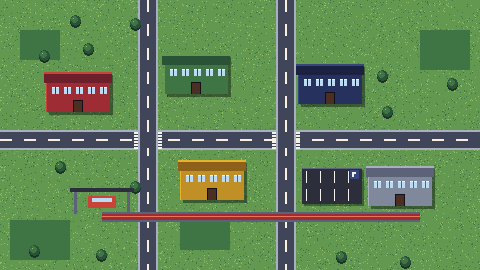
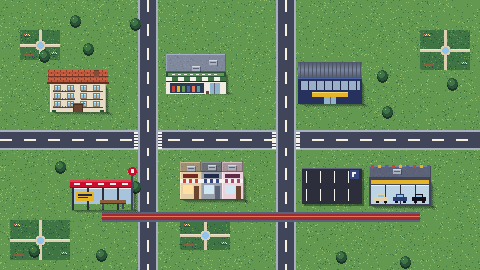
Haritalar: mekana özel 3/4 binalar, durak sığınakları, parklar, kampüs kapısı ve tarihi kışla

diff --git a/tools/make_backgrounds.py b/tools/make_backgrounds.py
@@ -180,7 +180,7 @@ def city_map():
     p.fill(0, 0, 480, 270, GREEN[3])
     p.speckle(0, 0, 480, 270, [GREEN[2], GREEN[4]], 0.07, 1)
     for (x, y, w, h) in [(20, 30, 40, 30), (420, 30, 50, 40), (10, 220, 60, 40), (180, 220, 50, 30)]:
-        p.fill(x, y, w, h, GREEN[2])
+        small_park(p, x, y, w, h)
     # yollar ve kaldırımlar
     def road_h(y):
         p.fill(0, y - 2, 480, 20, STONE[5]); p.fill(0, y, 480, 16, STONE[2])
@@ -207,11 +207,9 @@ def city_map():
             continue
         p.circle(x, y + 2, 5, GREEN[0]); p.circle(x, y, 5, GREEN[1]); p.circle(x - 1, y - 1, 3, GREEN[2]); p.set(x - 2, y - 2, GREEN[4])
     for name, ((cx, cy), ramp) in MAP_SPOTS.items():
-        map_building(p, cx, cy, ramp)
+        draw_place(p, name, cx, cy, ramp)
     # durak
-    x, y = 70, 176
-    p.fill(x, y + 12, 64, 4, STONE[1]); p.fill(x + 4, y + 16, 3, 22, STONE[3]); p.fill(x + 57, y + 16, 3, 22, STONE[3])
-    p.fill(x + 18, y + 20, 28, 12, RED[3]); p.fill(x + 22, y + 22, 20, 4, SKY[3])
+    bus_shelter(p, 70, 180)
     p.save("bg_map.png")
 
 
@@ -223,6 +221,229 @@ def parking_lot(p, cx, cy):
     for k in range(x + 4, x + w, 14):
         p.fill(k, y + 3, 1, 12, WHITE); p.fill(k, y + h - 15, 1, 12, WHITE)
     p.fill(x + w - 12, y + 2, 9, 9, NAVY[3]); p.fill(x + w - 10, y + 4, 2, 5, WHITE); p.fill(x + w - 8, y + 4, 2, 2, WHITE)
+
+
+# ---------------------------------------------------------------- Harita binaları (3/4 açı, mekana özel)
+# Her bina hover alanına (merkez cx, cy; 64x40) sığar: üstte çatı yüzeyi, altta cephe, sağ altta gölge.
+
+def _shade(c, k):
+    return tuple(max(0, min(255, int(v * k))) for v in c)
+
+
+def _ground_shadow(p, x, y, w, h):
+    for k in range(5):   # sağa-aşağı düşen yumuşak gölge
+        p.darken(x + 3 + k, y + h + k // 2, w, 1, 0.82, dither=k > 2)
+        p.darken(x + w + k // 2, y + 4 + k, 1, h - 4, 0.82, dither=k > 2)
+
+
+def _windows(p, x, y, cols, rows, ww, wh, gx, gy, frame, glass, sill=None, lit=0.0, seed=1):
+    import random as _r
+    rng = _r.Random(seed)
+    for r in range(rows):
+        for c in range(cols):
+            wx, wy = x + c * (ww + gx), y + r * (wh + gy)
+            p.fill(wx - 1, wy - 1, ww + 2, wh + 2, frame)
+            p.fill(wx, wy, ww, wh, glass)
+            p.fill(wx, wy, ww, 1, _shade(glass, 1.25))
+            if ww >= 4:
+                p.fill(wx + ww // 2, wy, 1, wh, frame)
+            if lit and rng.random() < lit:
+                p.fill(wx, wy + 1, ww, wh - 1, GOLD[4])
+            if sill:
+                p.fill(wx - 1, wy + wh + 1, ww + 2, 1, sill)
+
+
+def _pitched_roof(p, x, y, w, d, tile):
+    """Kiremit çatı (üstten): mahyaya doğru açılan sıralar, ortada mahya, kenarda saçak."""
+    p.fill(x - 2, y, w + 4, d, _shade(tile, 0.85))
+    for r in range(d):
+        col = tile if (r // 2) % 2 else _shade(tile, 1.12)
+        p.fill(x - 2, y + r, w + 4, 1, col)
+        for k in range(x - 2 + (r // 2 % 2) * 3, x + w + 2, 6):
+            p.set(k, y + r, _shade(tile, 0.75))
+    p.fill(x - 2, y + d // 2, w + 4, 1, _shade(tile, 0.6))      # mahya
+    p.fill(x - 3, y + d, w + 6, 2, _shade(tile, 0.55))          # saçak gölgesi
+
+
+def _flat_roof(p, x, y, w, d, base, units=2, seed=3):
+    import random as _r
+    rng = _r.Random(seed)
+    p.fill(x, y, w, d, base)
+    p.speckle(x + 1, y + 1, w - 2, d - 2, [_shade(base, 0.9), _shade(base, 1.08)], 0.12, seed)
+    p.fill(x, y, w, 1, _shade(base, 1.3)); p.fill(x, y, 1, d, _shade(base, 1.2))      # korkuluk duvarı
+    p.fill(x + w - 1, y, 1, d, _shade(base, 0.75)); p.fill(x, y + d - 1, w, 1, _shade(base, 0.7))
+    for k in range(units):   # klima / havalandırma kutuları
+        ux, uy = x + 4 + rng.randrange(max(1, w - 14)), y + 2 + rng.randrange(max(1, d - 7))
+        p.fill(ux, uy, 8, 5, STONE[5]); p.fill(ux, uy, 8, 1, STONE[6]); p.fill(ux + 1, uy + 2, 6, 1, STONE[3])
+        p.darken(ux + 8, uy + 1, 1, 5, 0.7)
+
+
+def bus_shelter(p, x, y):
+    """Metrobüs durağı sığınağı (3/4): kırmızı-beyaz çatı, cam arka panel, bank, durak tabelası."""
+    _ground_shadow(p, x, y + 6, 64, 24)
+    p.fill(x, y, 64, 8, H("c8102e")); p.fill(x, y, 64, 2, H("e83a50")); p.fill(x, y + 7, 64, 1, H("8e0a20"))
+    for k in range(x + 4, x + 60, 12):
+        p.fill(k, y + 3, 6, 2, WHITE)
+    p.fill(x + 2, y + 8, 60, 16, H("a8c4dc")); p.fill(x + 2, y + 8, 60, 1, WHITE)          # cam panel
+    for k in range(x + 2, x + 62, 15):
+        p.fill(k, y + 8, 2, 22, STONE[1])
+    p.fill(x + 6, y + 12, 18, 9, H("e6b428")); p.fill(x + 8, y + 14, 14, 2, H("1b2a52")); p.fill(x + 8, y + 17, 10, 1, H("1b2a52"))  # reklam
+    p.fill(x + 30, y + 20, 26, 3, WOOD[3]); p.fill(x + 30, y + 23, 26, 1, WOOD[1])          # bank
+    p.fill(x + 32, y + 24, 2, 5, STONE[2]); p.fill(x + 52, y + 24, 2, 5, STONE[2])
+    p.fill(x + 61, y - 8, 2, 38, STONE[2])                                                     # tabela direği
+    p.circle(x + 62, y - 9, 4, H("c8102e")); p.fill(x + 61, y - 11, 3, 4, WHITE)
+
+
+def small_park(p, x, y, w, h):
+    """Küçük park: koyu çim, kıvrımlı yol, çiçek tarhı, bank."""
+    p.fill(x, y, w, h, GREEN[2])
+    p.speckle(x, y, w, h, [GREEN[1], GREEN[3]], 0.1, x + y)
+    p.fill(x, y + h // 2 - 1, w, 3, CREAM[3]); p.fill(x + w // 2 - 1, y, 3, h, CREAM[3])
+    p.fill(x, y + h // 2 - 1, w, 1, CREAM[4])
+    p.circle(x + w // 2, y + h // 2, 5, CREAM[3]); p.circle(x + w // 2, y + h // 2, 3, SKY[2])   # süs havuzu
+    for (fx, fy) in ((x + 4, y + 4), (x + w - 9, y + h - 8)):
+        for k in range(6):
+            p.set(fx + k, fy + (k % 2), [RED[4], GOLD[4], WHITE][k % 3])
+            p.set(fx + k, fy + 2, GREEN[1])
+    p.fill(x + 4, y + h - 6, 10, 2, WOOD[3]); p.fill(x + 5, y + h - 4, 1, 2, STONE[2]); p.fill(x + 12, y + h - 4, 1, 2, STONE[2])
+
+
+def campus_gate(p, cx, y):
+    """Kampüs kapısı: iki taş ayak, üstte kemer ve tabela."""
+    p.fill(cx - 22, y - 10, 8, 18, CREAM[1]); p.fill(cx + 14, y - 10, 8, 18, CREAM[1])
+    p.fill(cx - 22, y - 10, 8, 2, CREAM[4]); p.fill(cx + 14, y - 10, 8, 2, CREAM[4])
+    p.fill(cx - 22, y - 14, 44, 5, H("1b2a52")); p.fill(cx - 22, y - 14, 44, 1, H("4d63a6"))
+    p.fill(cx - 12, y - 13, 24, 2, GOLD[3])
+    p.fill(cx - 14, y - 9, 28, 1, STONE[2])
+    p.darken(cx - 14, y + 8, 40, 3, 0.8, dither=True)
+
+
+def kisla(p, x, y):
+    """Tarihi Davutpaşa Kışlası: kiremit çatı, kum taşı cephe, kemerli pencereler, saat kuleli kapı."""
+    w = 58
+    _ground_shadow(p, x, y + 10, w, 34)
+    _pitched_roof(p, x, y, w, 10, H("a8442e"))
+    p.fill(x, y + 12, w, 32, H("d8b888")); p.fill(x, y + 12, w, 1, H("ecd2a4")); p.fill(x, y + 12, 1, 32, H("ecd2a4"))
+    p.fill(x, y + 27, w, 1, H("b89868"))
+    for ax in list(range(x + 3, x + 22, 6)) + list(range(x + 38, x + w - 3, 6)):    # kemerli pencereler
+        for row in (y + 15, y + 30):
+            p.fill(ax, row + 2, 4, 7, H("3a2a22")); p.fill(ax + 1, row + 1, 2, 1, H("3a2a22"))
+            p.fill(ax, row + 9, 4, 1, H("ecd2a4"))
+    tx = x + w // 2 - 7                                                               # saat kulesi ve kapı
+    p.fill(tx, y - 8, 14, 52, H("c8a878")); p.fill(tx, y - 8, 14, 2, H("ecd2a4"))
+    p.fill(tx - 1, y - 11, 16, 4, H("a8442e")); p.fill(tx + 6, y - 14, 2, 3, GOLD[3])
+    p.circle(tx + 7, y + 2, 4, WHITE); p.fill(tx + 7, y - 1, 1, 3, BLACK); p.fill(tx + 7, y + 2, 3, 1, BLACK)
+    p.fill(tx + 3, y + 30, 8, 14, H("3a2a22")); p.fill(tx + 4, y + 29, 6, 1, H("3a2a22"))
+
+
+def draw_place(p, name, cx, cy, ramp):
+    x0, y0 = cx - 32, cy - 22
+    if name == "ev":   # 4 katlı apartman: kiremit çatı, balkonlar
+        x, w = x0 + 4, 56
+        _ground_shadow(p, x, y0 + 12, w, 30)
+        _pitched_roof(p, x, y0, w, 12, H("b8553a"))
+        p.fill(x + w - 12, y0 + 1, 5, 6, H("8a4a3a")); p.fill(x + w - 12, y0, 5, 1, H("6a3a2e"))      # baca
+        p.fill(x, y0 + 14, w, 28, H("e8dcc4")); p.fill(x, y0 + 14, 1, 28, H("f6eedc")); p.fill(x + w - 1, y0 + 14, 1, 28, H("c8b89c"))
+        for fl in range(3):
+            fy = y0 + 16 + fl * 8
+            _windows(p, x + 5, fy, 4, 1, 5, 4, 8, 0, H("8a7a62"), SKY[2], seed=fl)
+            p.fill(x + 3, fy + 5, 22, 1, STONE[2]); p.fill(x + 31, fy + 5, 22, 1, STONE[2])   # balkon korkuluğu
+            for k in range(x + 3, x + 25, 3):
+                p.set(k, fy + 4, STONE[3])
+        p.fill(cx - 5, y0 + 34, 10, 8, WOOD[1]); p.fill(cx - 4, y0 + 35, 8, 7, WOOD[2]); p.fill(cx - 7, y0 + 33, 14, 1, STONE[3])
+        p.fill(x + 2, y0 + 40, 4, 2, GREEN[1]); p.fill(x + w - 6, y0 + 40, 4, 2, GREEN[1])
+    elif name == "market":   # tek katlı market: düz çatı, yeşil tente, vitrin
+        x, w = x0 + 2, 60
+        _ground_shadow(p, x, y0 + 18, w, 22)
+        _flat_roof(p, x, y0 + 2, w, 18, STONE[4], 2, 5)
+        p.fill(x, y0 + 20, w, 22, H("f0ece2"))
+        p.fill(x, y0 + 20, w, 5, GREEN[1]); p.fill(x + 2, y0 + 21, w - 4, 3, GREEN[3])           # tabela bandı
+        for k in range(x + 6, x + w - 6, 6):
+            p.fill(k, y0 + 22, 3, 1, WHITE)
+        for k, sx in enumerate(range(x, x + w, 6)):                                               # tente
+            p.fill(sx, y0 + 25, 6, 4, GREEN[2] if k % 2 else WHITE)
+        p.fill(x, y0 + 29, w, 1, GREEN[0])
+        p.fill(x + 4, y0 + 31, 34, 10, H("2b3a55"))
+        for k in range(6):
+            p.fill(x + 6 + k * 5, y0 + 34, 3, 6, [RED[3], GOLD[3], GREEN[3], NAVY[4], H("e8745a"), TEAL[3]][k])
+        p.fill(x + 44, y0 + 31, 10, 11, H("8fb4cc")); p.fill(x + 48, y0 + 31, 1, 11, STONE[3])
+        p.fill(x + 40, y0 + 39, 3, 3, WOOD[2])
+    elif name == "gym":   # spor salonu: kemerli metal çatı, cam şerit
+        x, w = x0, 64
+        _ground_shadow(p, x, y0 + 16, w, 26)
+        for r in range(16):   # kemerli çatı: ortası açık, kenarlar koyu
+            k = 0.75 + 0.35 * (1 - abs(r - 7.5) / 7.5)
+            p.fill(x, y0 + r, w, 1, _shade(H("6e7a92"), k))
+        for k in range(x + 2, x + w, 4):
+            p.fill(k, y0, 1, 16, _shade(H("6e7a92"), 0.7))
+        p.fill(x, y0 + 16, w, 26, NAVY[2]); p.fill(x, y0 + 16, w, 1, NAVY[4])
+        p.fill(x + 2, y0 + 19, w - 4, 9, H("9ab0c8"))                                              # cam şerit
+        for k in range(x + 2, x + w - 2, 8):
+            p.fill(k, y0 + 19, 1, 9, NAVY[1])
+        p.fill(x + 14, y0 + 30, 36, 5, GOLD[3]); p.fill(x + 14, y0 + 30, 36, 1, GOLD[4])          # tabela
+        p.fill(cx - 6, y0 + 35, 12, 7, H("8fb4cc")); p.fill(cx, y0 + 35, 1, 7, STONE[3])
+    elif name == "galeri":   # oto galeri: cam vitrin, içinde arabalar, flamalar
+        x, w = x0 + 1, 62
+        _ground_shadow(p, x, y0 + 14, w, 28)
+        _flat_roof(p, x, y0 + 2, w, 12, STONE[3], 1, 7)
+        for k, fx in enumerate(range(x + 2, x + w, 7)):   # flamalar
+            p.fill(fx, y0 + 1, 3, 3, [RED[3], GOLD[3], NAVY[4]][k % 3])
+        p.fill(x, y0 + 14, w, 28, STONE[2])
+        p.fill(x + 2, y0 + 16, w - 4, 4, GOLD[3])
+        p.fill(x + 2, y0 + 21, w - 4, 19, H("bcd4e4")); p.fill(x + 2, y0 + 21, w - 4, 1, WHITE)
+        for k in range(x + 16, x + w - 2, 15):
+            p.fill(k, y0 + 21, 1, 19, STONE[1])
+        for k, col in enumerate((H("e2d4a8"), H("2a3e70"), BLACK)):    # vitrindeki arabalar (yandan)
+            ax = x + 5 + k * 19
+            p.fill(ax, y0 + 33, 14, 4, col); p.fill(ax + 3, y0 + 30, 8, 3, col); p.fill(ax + 4, y0 + 31, 6, 2, SKY[2])
+            p.fill(ax + 2, y0 + 37, 3, 2, BLACK); p.fill(ax + 10, y0 + 37, 3, 2, BLACK)
+    elif name == "carsi":   # çarşı: renkli tenteli üç dükkan
+        _ground_shadow(p, x0, y0 + 14, 64, 28)
+        cols = [(H("e2cfa8"), RED[3]), (H("9aa0aa"), NAVY[3]), (H("ecd2da"), H("a04878"))]
+        for k, (wall_c, awn) in enumerate(cols):
+            x = x0 + k * 21
+            _flat_roof(p, x, y0 + 4, 21, 10, _shade(wall_c, 0.7), 1, 11 + k)
+            p.fill(x, y0 + 14, 21, 28, wall_c); p.fill(x, y0 + 14, 1, 28, _shade(wall_c, 1.1))
+            p.fill(x + 3, y0 + 16, 15, 4, _shade(awn, 0.6))                                         # tabela
+            for j, sx in enumerate(range(x, x + 21, 3)):                                            # tente
+                p.fill(sx, y0 + 21, 3, 4, awn if j % 2 else WHITE)
+            p.fill(x + 3, y0 + 27, 10, 9, H("ffe0a0") if k == 0 else H("cfe7f5"))
+            p.fill(x + 14, y0 + 28, 5, 14, WOOD[2] if k != 1 else STONE[3])
+        p.fill(x0, y0 + 41, 64, 1, STONE[2])
+    else:   # kampüs binaları
+        wall, roof = (ramp[2] if len(ramp) > 2 else ramp[0]), (ramp[1] if len(ramp) > 1 else ramp[0])
+        if name == "kampus_kafe":   # kafe: ahşap cephe, büyük camlar, terasta şemsiyeler
+            x, w = x0 + 4, 50
+            _ground_shadow(p, x, y0 + 12, w, 24)
+            _pitched_roof(p, x, y0 + 2, w, 10, H("6b4530"))
+            p.fill(x, y0 + 14, w, 22, H("b07d50")); p.fill(x, y0 + 14, w, 1, H("d0a070"))
+            for k in range(x, x + w, 4):
+                p.fill(k, y0 + 14, 1, 22, H("8d5e3c"))
+            _windows(p, x + 3, y0 + 18, 3, 1, 10, 10, 4, 0, WOOD[1], H("ffe0a0"))
+            p.fill(x + 41, y0 + 18, 6, 18, WOOD[0])
+            for k, ux in enumerate((x0 + 4, x0 + 22, x0 + 40)):   # teras şemsiyeleri
+                c = [RED[3], GREEN[3], GOLD[3]][k]
+                p.circle(ux + 6, y0 + 39, 5, c); p.circle(ux + 6, y0 + 38, 3, _shade(c, 1.2))
+        elif name == "yemekhane":   # tuğla yemekhane, büyük pencereler, bacalar
+            x, w = x0, 64
+            _ground_shadow(p, x, y0 + 14, w, 28)
+            _flat_roof(p, x, y0 + 2, w, 12, STONE[3], 3, 13)
+            p.fill(x + 50, y0, 4, 5, STONE[2]); p.fill(x + 8, y0, 4, 5, STONE[2])
+            p.bricks(x, y0 + 14, w, 28, [RED[0], RED[1], RED[2], RED[3]], 6, 3, seed=4)
+            _windows(p, x + 4, y0 + 18, 5, 1, 8, 9, 4, 0, H("f4f2ec"), SKY[2])
+            p.fill(cx - 7, y0 + 32, 14, 10, H("8fb4cc")); p.fill(cx, y0 + 32, 1, 10, STONE[3]); p.fill(cx - 9, y0 + 30, 18, 2, STONE[5])
+        else:   # fakülteler: 3 katlı blok, pencere ızgarası, sütunlu giriş
+            x, w = x0, 64
+            _ground_shadow(p, x, y0 + 12, w, 30)
+            _flat_roof(p, x, y0 + 1, w, 11, _shade(roof, 1.05), 2, len(name))
+            p.fill(x, y0 + 12, w, 30, wall); p.fill(x, y0 + 12, 1, 30, _shade(wall, 1.2)); p.fill(x + w - 1, y0 + 12, 1, 30, _shade(wall, 0.75))
+            for fl in range(3):
+                p.fill(x, y0 + 21 + fl * 7, w, 1, _shade(wall, 0.85))                                # kat çizgileri
+            _windows(p, x + 3, y0 + 14, 9, 3, 4, 4, 3, 3, _shade(wall, 0.6), SKY[3], seed=len(name))
+            p.fill(cx - 10, y0 + 33, 20, 2, STONE[6]); p.fill(cx - 10, y0 + 35, 20, 7, _shade(wall, 0.7))    # giriş saçağı
+            for k in range(cx - 9, cx + 10, 6):
+                p.fill(k, y0 + 35, 2, 7, STONE[6])
+            p.fill(cx - 3, y0 + 36, 6, 6, H("8fb4cc"))
 
 
 def map_building(p, cx, cy, ramp):
@@ -266,25 +487,21 @@ def campus_map():
                 p.set(170 + xx, 105 + yy, SKY[1] if (xx + yy) % 5 else SKY[3])
     # kampüs duvarı ve kapı
     p.fill(0, 228, 480, 6, CREAM[2]); p.fill(0, 228, 480, 1, CREAM[4])
-    p.fill(54, 222, 32, 14, CREAM[1]); p.fill(58, 226, 24, 10, STONE[2])
-    # metrobüs durağı (kapının yanında)
-    p.fill(36, 184, 64, 4, STONE[1]); p.fill(40, 188, 3, 22, STONE[3]); p.fill(93, 188, 3, 22, STONE[3])
-    p.fill(54, 192, 28, 12, RED[3]); p.fill(58, 194, 20, 4, SKY[3])
+    campus_gate(p, 70, 228)
+    bus_shelter(p, 38, 184)
     parking_lot(p, 446, 52)
     # tarihi kışla (süs)
-    p.fill(420, 176, 54, 34, GOLD[1]); p.fill(418, 172, 58, 5, RED[1])
-    for ax in range(424, 470, 10):
-        p.fill(ax, 188, 6, 14, BLACK); p.fill(ax + 1, 186, 4, 2, BLACK)
+    kisla(p, 418, 168)
     # ağaçlar
     rng = random.Random(9)
     for _ in range(40):
         x, y = rng.randrange(8, 472), rng.randrange(20, 224)
-        if any(abs(x - sx) < 42 and abs(y - sy) < 32 for (sx, sy), _ in CAMPUS_SPOTS.values()) or 132 < y < 148 or (x > 405 and y < 80) \
+        if any(abs(x - sx) < 42 and abs(y - sy) < 32 for (sx, sy), _ in CAMPUS_SPOTS.values()) or 132 < y < 148 or (x > 405 and y < 80) or (x > 405 and y > 160) \
                 or (140 < x < 200 and 88 < y < 122) or (30 < x < 110 and y > 175):
             continue
         p.circle(x, y + 2, 5, GREEN[0]); p.circle(x, y, 5, GREEN[1]); p.circle(x - 1, y - 1, 3, GREEN[2]); p.set(x - 2, y - 2, GREEN[4])
     for name, ((cx, cy), ramp) in CAMPUS_SPOTS.items():
-        map_building(p, cx, cy, ramp)
+        draw_place(p, name, cx, cy, ramp)
     p.save("bg_campus.png")
 
 
